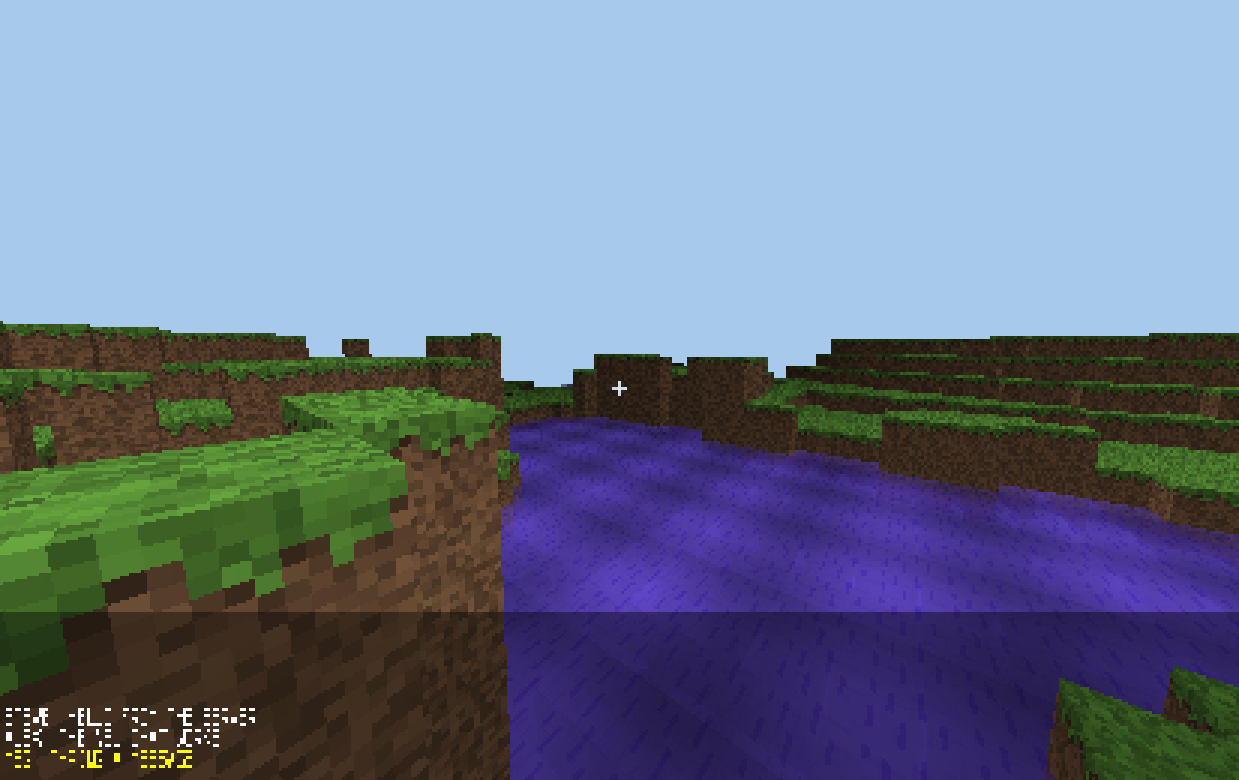
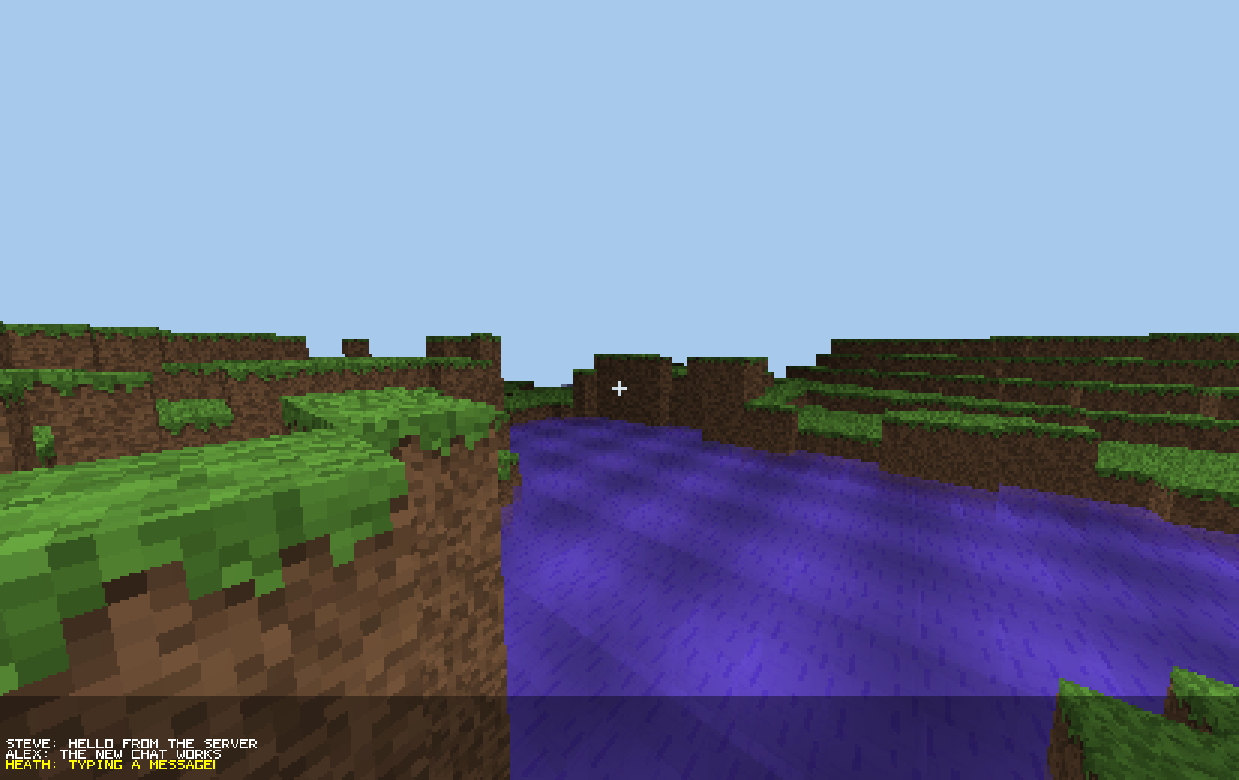
chat: hide the input on close, blink the cursor, username format
- rasterise the input line and cursor only while the chat is open; recent
  messages stay for 10s and the band hides entirely when there is nothing
  to show
- blink the cursor every 500ms, resetting the phase on open/typing
- input line shows '<name>: ' instead of 'MSG: ', and offline echoes use
  the player name too
- chat demo composites at window resolution so the screenshot shows the
  real 9px glyphs and the closed state

Changed region(s): [[0.0, 0.5538, 1.0, 0.9846], [0.9201, 0.6462, 0.9508, 0.6769]]

diff --git a/src/main/java/com/craftclassic/client/gpu/GpuMain.java b/src/main/java/com/craftclassic/client/gpu/GpuMain.java
@@ -175,6 +175,7 @@ public final class GpuMain implements ClientBridge.View
 
             renderer = new GpuWorldRenderer(Main.WIDTH, Main.HEIGHT, Main.FOCAL);
             chat = new ChatOverlay(Main.WIDTH * 2, CHAT_BAND_HEIGHT);
+            chat.setUsername(playerName);
             ClientBridge.view = this;
 
             if (serverHost != null)
@@ -564,7 +565,7 @@ public final class GpuMain implements ClientBridge.View
         if (nettyClient != null && nettyClient.isConnected())
             nettyClient.sendPacket(new ChatMessagePacket(text));
         else
-            chat.addMessage("", text);
+            chat.addMessage(playerName, text);
     }
 
     private static void releaseMovementKeys()
@@ -575,6 +576,48 @@ public final class GpuMain implements ClientBridge.View
         Input.setKey(KeyEvent.VK_D, false);
         Input.setKey(KeyEvent.VK_SPACE, false);
         Input.setKey(KeyEvent.VK_CONTROL, false);
+    }
+
+    private void writeChatComposite(String path)
+    {
+        int width = Main.WIDTH * Main.SCALE;
+        int height = Main.HEIGHT * Main.SCALE;
+        int target = glGenFramebuffers();
+        int colour = glGenTextures();
+
+        glBindTexture(GL_TEXTURE_2D, colour);
+        glTexImage2D(GL_TEXTURE_2D, 0, GL_RGBA8, width, height, 0,
+                GL_RGBA, GL_UNSIGNED_BYTE, (ByteBuffer) null);
+
+        glBindFramebuffer(GL_FRAMEBUFFER, target);
+        glFramebufferTexture2D(GL_FRAMEBUFFER, GL_COLOR_ATTACHMENT0, GL_TEXTURE_2D, colour, 0);
+
+        renderer.blit(width, height, chat.getTexture(), chat.isVisible(),
+                (float) chat.getHeight() / 2.0f / Main.HEIGHT);
+
+        ByteBuffer composed = MemoryUtil.memAlloc(width * height * 4);
+        try
+        {
+            glReadBuffer(GL_COLOR_ATTACHMENT0);
+            glPixelStorei(GL_PACK_ALIGNMENT, 1);
+            glReadPixels(0, 0, width, height, GL_RGBA, GL_UNSIGNED_BYTE, composed);
+            GlUtil.writePng(width, height, composed, path);
+            System.out.println("Wrote       " + path);
+        }
+        catch (Exception e)
+        {
+            System.err.println("Could not write " + path + ": " + e.getMessage());
+        }
+        finally
+        {
+            MemoryUtil.memFree(composed);
+        }
+
+        glBindFramebuffer(GL_FRAMEBUFFER, 0);
+        glReadBuffer(GL_BACK);
+        glBindTexture(GL_TEXTURE_2D, 0);
+        glDeleteFramebuffers(target);
+        glDeleteTextures(colour);
     }
 
     private void renderFrame()
@@ -675,48 +718,14 @@ public final class GpuMain implements ClientBridge.View
 
         if (chatDemo)
         {
-            // Compose through the blit shader into an offscreen target, so the
-            // test never touches the (hidden) window's back buffer.
-            int target = glGenFramebuffers();
-            int colour = glGenTextures();
+            writeChatComposite("gpu-chat.png");
 
-            glBindTexture(GL_TEXTURE_2D, colour);
-            glTexImage2D(GL_TEXTURE_2D, 0, GL_RGBA8, Main.WIDTH, Main.HEIGHT, 0,
-                    GL_RGBA, GL_UNSIGNED_BYTE, (ByteBuffer) null);
+            // Closing the input should keep the recent messages but drop the
+            // input line and cursor.
+            chat.setOpen(false);
+            chat.update();
+            writeChatComposite("gpu-chat-closed.png");
 
-            glBindFramebuffer(GL_FRAMEBUFFER, target);
-            glFramebufferTexture2D(GL_FRAMEBUFFER, GL_COLOR_ATTACHMENT0, GL_TEXTURE_2D, colour, 0);
-
-            renderer.blit(Main.WIDTH, Main.HEIGHT, chat.getTexture(), chat.isVisible(),
-                    (float) chat.getHeight() / Main.HEIGHT);
-
-            ByteBuffer composed = MemoryUtil.memAlloc(Main.WIDTH * Main.HEIGHT * 4);
-            try
-            {
-                glReadBuffer(GL_COLOR_ATTACHMENT0);
-                glPixelStorei(GL_PACK_ALIGNMENT, 1);
-                glReadPixels(0, 0, Main.WIDTH, Main.HEIGHT, GL_RGBA, GL_UNSIGNED_BYTE, composed);
-                GlUtil.writePng(Main.WIDTH, Main.HEIGHT, composed, "gpu-chat.png");
-                System.out.println("Wrote       gpu-chat.png");
-            }
-            catch (Exception e)
-            {
-                System.err.println("Could not write gpu-chat.png: " + e.getMessage());
-            }
-            finally
-            {
-                MemoryUtil.memFree(composed);
-            }
-
-            glBindFramebuffer(GL_FRAMEBUFFER, 0);
-            glReadBuffer(GL_BACK);
-            glBindTexture(GL_TEXTURE_2D, 0);
-            glDeleteFramebuffers(target);
-            glDeleteTextures(colour);
-
-            // The hidden window's Metal context blocks in glfwDestroyWindow
-            // after this offscreen composite; the process is a test run, so
-            // skip the destroy and exit after GL cleanup instead.
             skipWindowDestroy = true;
         }
 

diff --git a/src/main/java/com/craftclassic/client/gpu/ChatOverlay.java b/src/main/java/com/craftclassic/client/gpu/ChatOverlay.java
@@ -54,6 +54,9 @@ public final class ChatOverlay implements AutoCloseable
     private long showUntil;
     private boolean dirty = true;
     private boolean wasVisible;
+    private String username = "";
+    private long cursorEpoch = System.currentTimeMillis();
+    private boolean cursorVisible = true;
 
     public ChatOverlay(int width, int bandHeight)
     {
@@ -88,6 +91,12 @@ public final class ChatOverlay implements AutoCloseable
         dirty = true;
     }
 
+    public synchronized void setUsername(String username)
+    {
+        this.username = username == null ? "" : username;
+        this.dirty = true;
+    }
+
     public synchronized boolean isOpen()
     {
         return open;
@@ -97,7 +106,14 @@ public final class ChatOverlay implements AutoCloseable
     {
         this.open = open;
         this.showUntil = open ? Long.MAX_VALUE : System.currentTimeMillis() + VISIBLE_MILLIS;
+        resetCursorBlink();
         this.dirty = true;
+    }
+
+    private void resetCursorBlink()
+    {
+        this.cursorEpoch = System.currentTimeMillis();
+        this.cursorVisible = true;
     }
 
     public synchronized void append(char character)
@@ -106,6 +122,7 @@ public final class ChatOverlay implements AutoCloseable
             return;
 
         input.append(character);
+        resetCursorBlink();
         dirty = true;
     }
 
@@ -121,12 +138,14 @@ public final class ChatOverlay implements AutoCloseable
             return;
 
         input.setLength(input.length() - 1);
+        resetCursorBlink();
         dirty = true;
     }
 
     public synchronized void clearInput()
     {
         input.setLength(0);
+        resetCursorBlink();
         dirty = true;
     }
 
@@ -137,7 +156,7 @@ public final class ChatOverlay implements AutoCloseable
 
     public synchronized boolean isVisible()
     {
-        return open || System.currentTimeMillis() < showUntil;
+        return open || (!messages.isEmpty() && System.currentTimeMillis() < showUntil);
     }
 
     /**
@@ -150,6 +169,16 @@ public final class ChatOverlay implements AutoCloseable
         {
             wasVisible = false;
             return;
+        }
+
+        if (open)
+        {
+            boolean visible = (System.currentTimeMillis() - cursorEpoch) % 1000L < 500L;
+            if (visible != cursorVisible)
+            {
+                cursorVisible = visible;
+                dirty = true;
+            }
         }
 
         if (dirty || !wasVisible)
@@ -165,16 +194,30 @@ public final class ChatOverlay implements AutoCloseable
     {
         Arrays.fill(pixels, BACKGROUND);
 
-        int inputY = height - LINE_HEIGHT - 3;
-        String prompt = "MSG: " + input;
-        drawText(4, inputY, prompt, INPUT_TEXT);
+        int lineY;
 
-        // Cursor: the font has no underscore, so draw a small block.
-        int cursorX = 4 + prompt.length() * ADVANCE;
-        for (int y = inputY; y < inputY + GLYPH_HEIGHT; y++)
-            putPixel(cursorX, y, INPUT_TEXT);
+        if (open)
+        {
+            int inputY = height - LINE_HEIGHT - 6;
+            String prompt = (username.isEmpty() ? "MSG: " : username + ": ") + input;
+            drawText(4, inputY, prompt, INPUT_TEXT);
 
-        int lineY = inputY - LINE_HEIGHT;
+            // Cursor: the font has no underscore, so draw a small block.
+            if (cursorVisible)
+            {
+                int cursorX = 4 + prompt.length() * ADVANCE;
+                for (int y = inputY; y < inputY + GLYPH_HEIGHT; y++)
+                    putPixel(cursorX, y, INPUT_TEXT);
+            }
+
+            lineY = inputY - LINE_HEIGHT;
+        }
+        else
+        {
+            // Closed: recent messages only, starting at the bottom.
+            lineY = height - LINE_HEIGHT - 6;
+        }
+
         for (int i = messages.size() - 1; i >= 0 && lineY >= 2; i--)
         {
             drawText(4, lineY, messages.get(i), TEXT);
